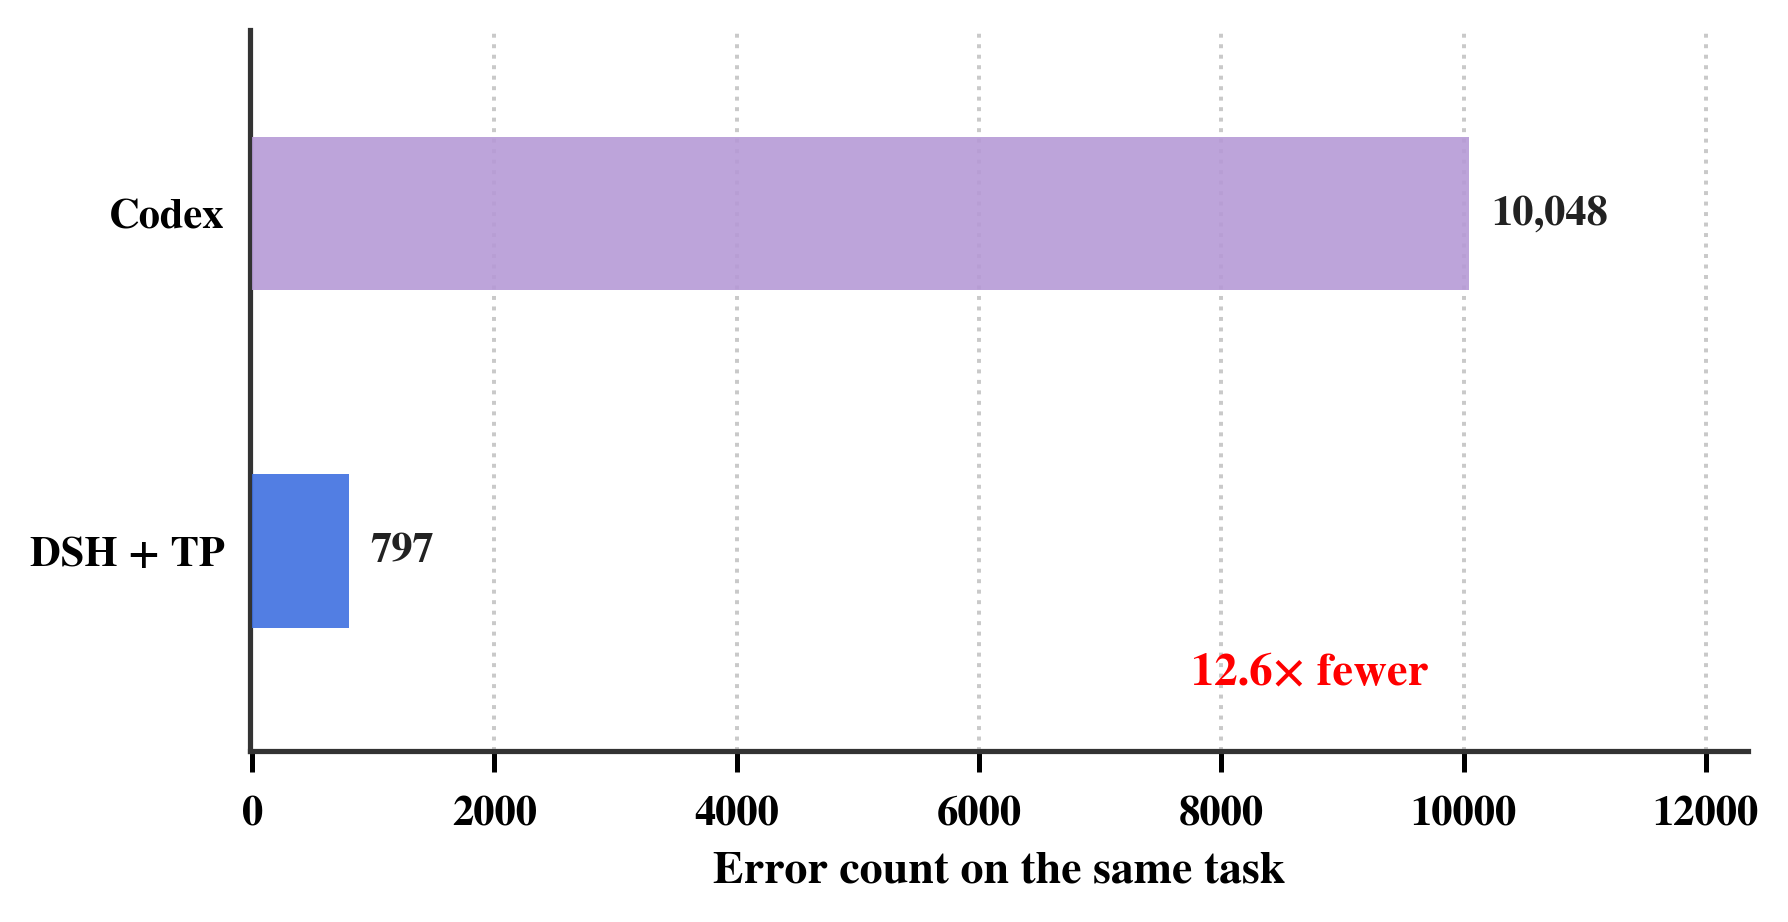
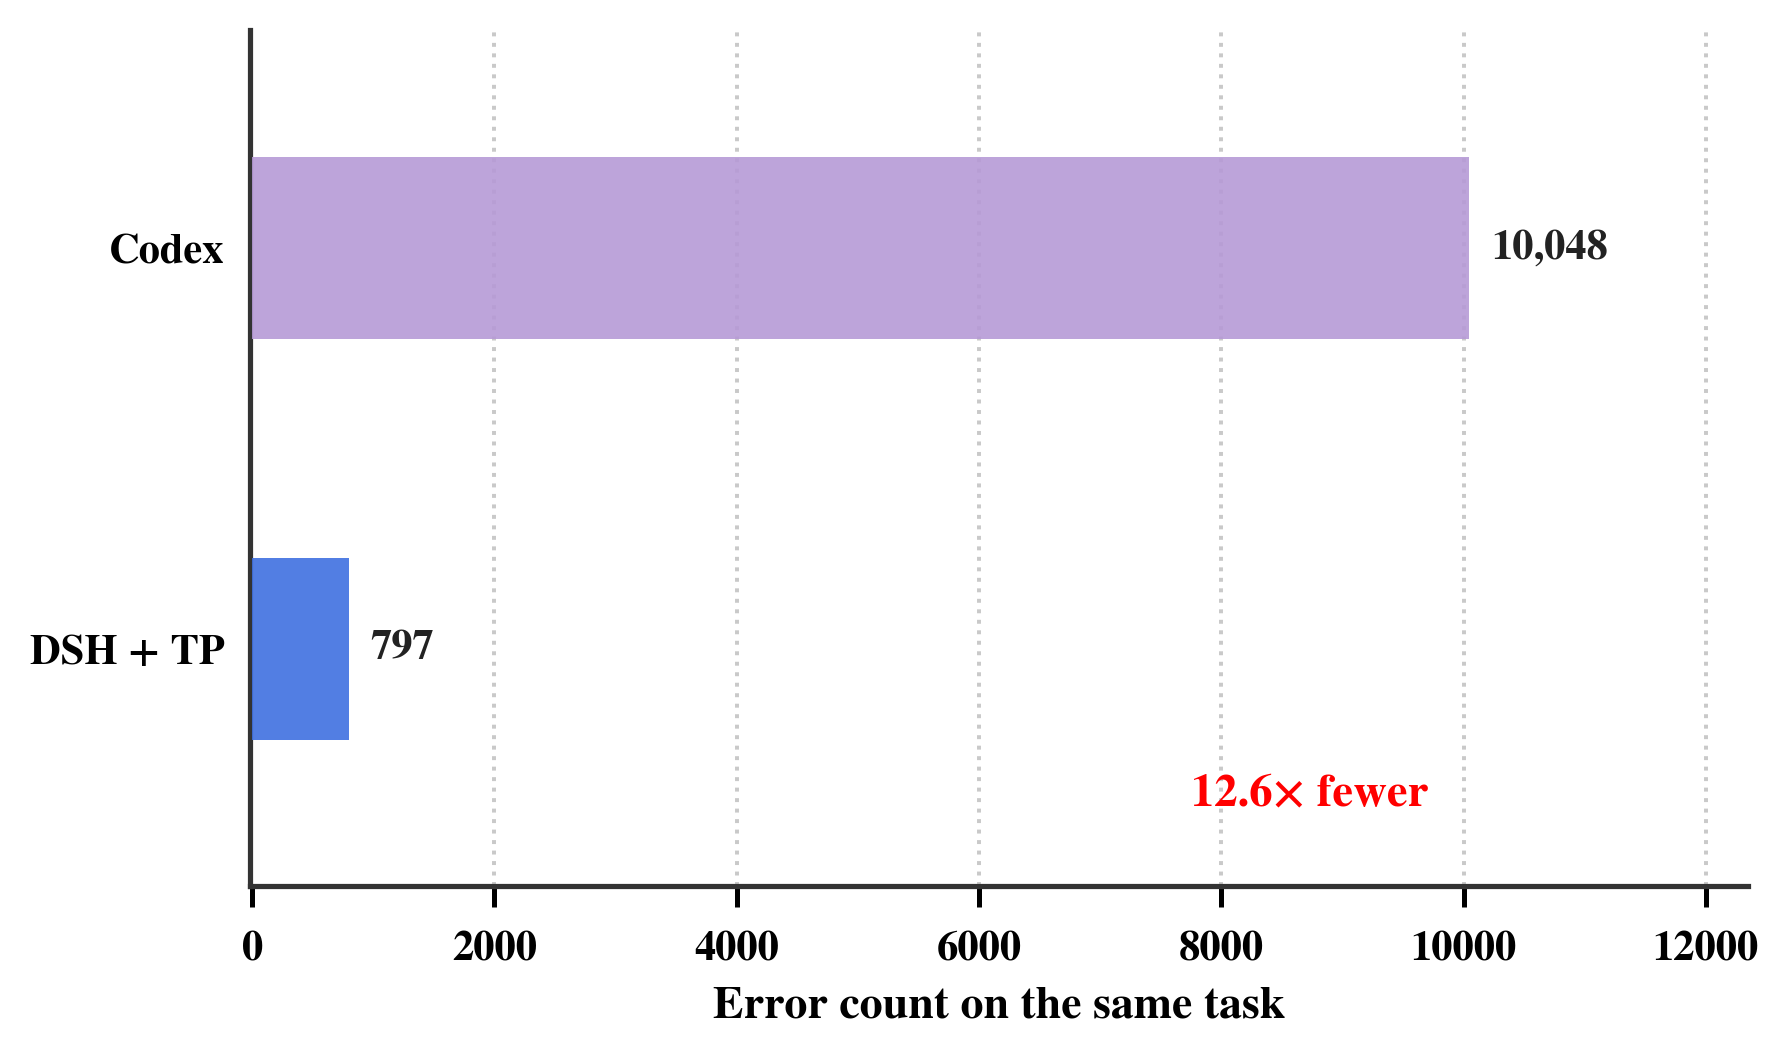
Align diagnosis figure with main plot

diff --git a/experiments/figures/fig_diagnosis/plot.py b/experiments/figures/fig_diagnosis/plot.py
@@ -39,7 +39,7 @@ def main() -> None:
         }
     )
 
-    fig, ax = plt.subplots(figsize=(5.9, 3.0), dpi=300)
+    fig, ax = plt.subplots(figsize=(5.9, 3.45), dpi=300)
     fig.patch.set_facecolor("white")
     ax.set_facecolor("white")
 
